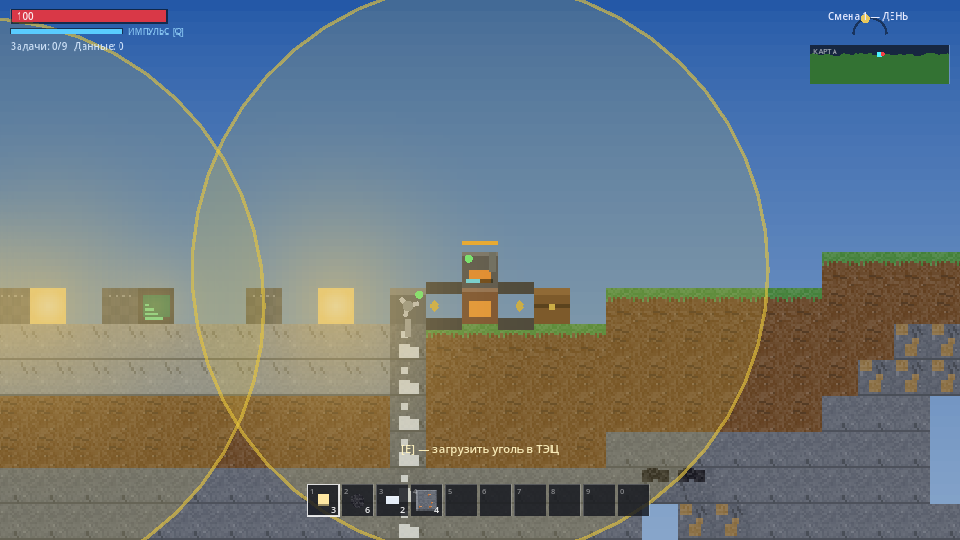
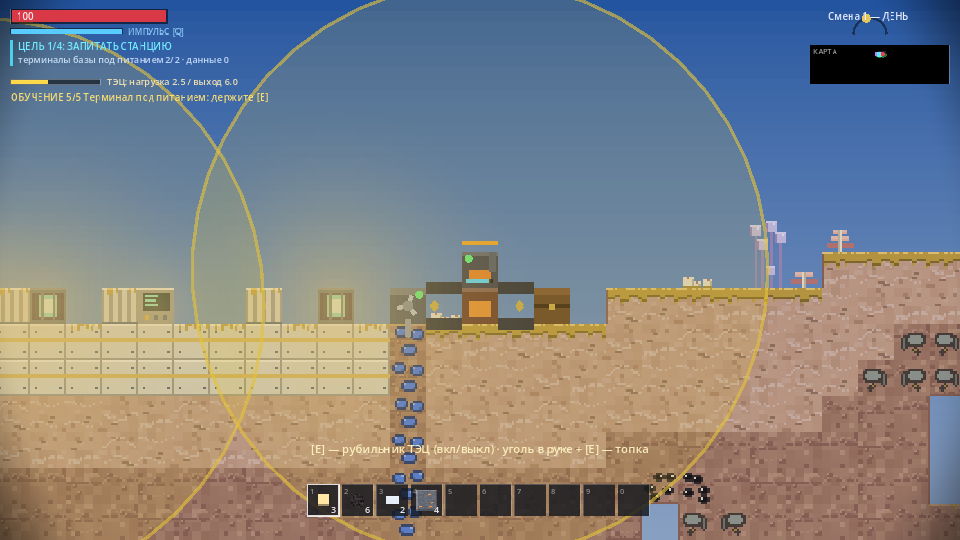
V2: очередь сборки чанков декора, рендеры флоры, сценарий и справка
Чанки декора, открытые туманом, собираются в _process по 300 мкс за кадр
(шаг в новое не платит в том же кадре), пустая очередь — _process выключен.
gallery_dump: лист декора docs/img/decor_flora.png, кадры place_flora и
place_cave_flora; обновлены тайлы свечника, лист вариантов и снимки базы.

diff --git a/tools/README_TESTS.md b/tools/README_TESTS.md
@@ -474,6 +474,19 @@ godot --headless --path . --script res://tools/save_test.gd
 рисунком героя — окно за экраном:
 `godot --path . --audio-driver Dummy --windowed --position -10000,-10000 --resolution 1280x720 --script res://tools/menu_test.gd -- --menu-shot=res://docs/img/menu.png`.
 
+### Стиль V2: флора и декор-слой (ADR-003, #104)
+
+Сценарий (`-- --scenario=decor_flora`): декор-слой (`World.decor`,
+`scripts/world/decor.gd`) — TileMapLayer без физики и навигации, над тайлами, под
+постройками и туманом войны; под туманом декора нет: открытые чанки идут в очередь,
+её разбирает `_process` по 300 мкс за кадр и выключается (шаг в новое не платит за
+сборку в том же кадре); собранный декор совпадает с правилами по всему миру,
+пересборка с нуля даёт то же, тайлы мира не меняются, в `save_state` декора нет;
+флора по биомам, над стволом в просветах шляпок — стебель; сломал пол — растение
+исчезло, вернул — выросло то же. Строка `DECORSTATS` — клеток по видам, мкс на чанк,
+полная сборка мира; проверка — средний пересчёт столбца при правке клетки.
+Форма свечника (TREE/LEAVES) — прежние проверки деревьев `--test`.
+
 ---
 
 ## 4. Сторож фризов
